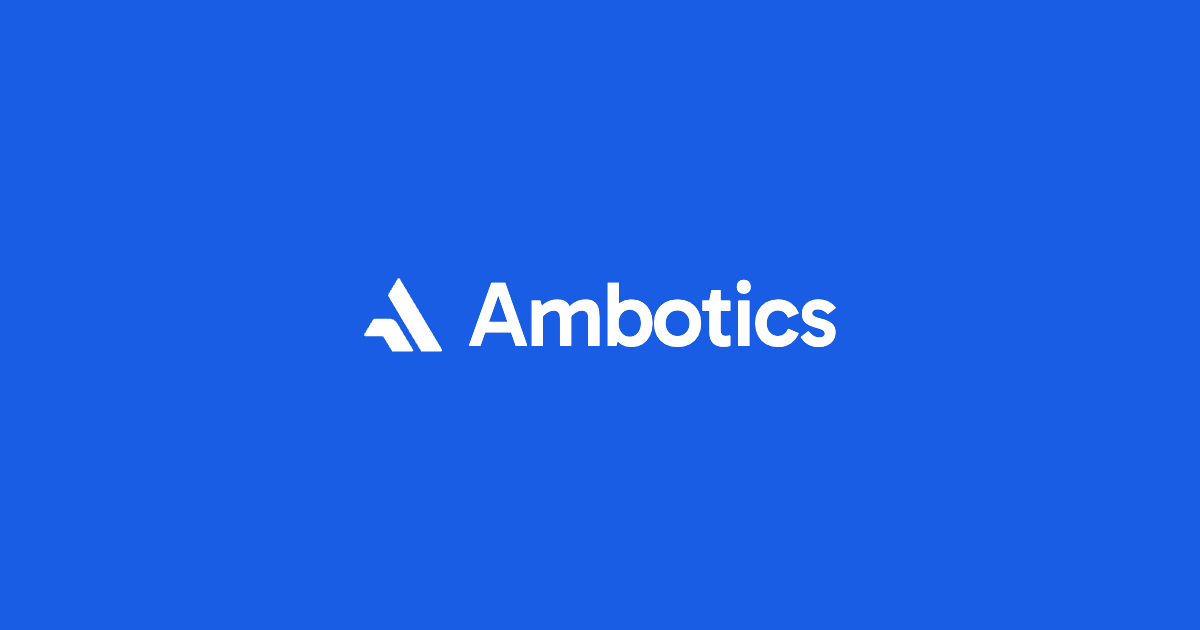
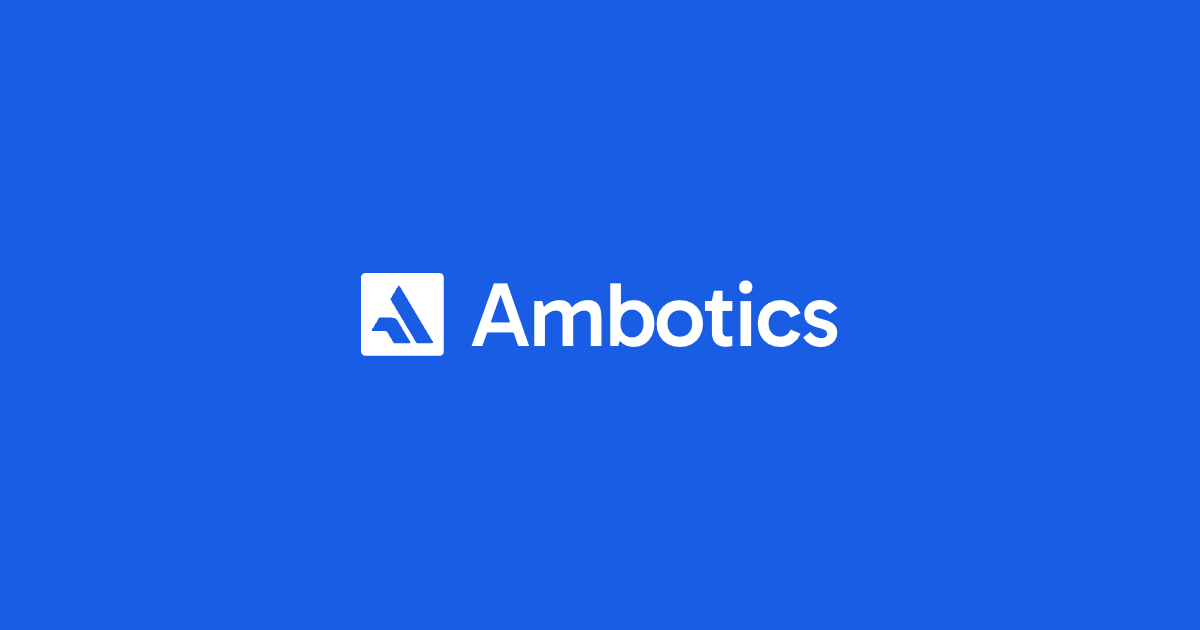
Put the mark on the designer's rounded tile (#7)
The A is knocked out of a 20px-corner tile that takes currentColor, so the
lockup reads as an app-icon badge: grey in the sidebar, white on the footer
with the blue showing through. The tile is 0.9em, centred on the cap height.

Off the page the badge is the footer's: a white tile with the A in the
accent. favicon.svg/.ico, apple-touch-icon.png and og-image.png are
re-rendered to match.

Changed region(s): [[0.4008, 0.4524, 0.7092, 0.5429], [0.2775, 0.4222, 0.37, 0.573]]

diff --git a/CLAUDE.md b/CLAUDE.md
@@ -62,20 +62,25 @@ them:
 
 Full palette table and rationale: see **Design system** in `README.md`.
 
-**The mark takes `currentColor`, never the designer's frame colours.** The source file
-(replaced 2026-11-01) is the mark knocked out of a white rounded square; the square is
-dropped. Earlier frames put the mark on a navy square, dropped because navy would be a
-second blue. The favicon re-centres the mark in the square: the designer's frame sat it
-17px right of centre.
-On the page the mark follows the wordmark (muted in the sidebar, white on the footer);
-off the page — favicon, apple-touch-icon, `og-image.png` — it is white on `#185de4`,
-the footer's own pairing. The mark is centred on Gabarito's 0.681em cap height (see
-`Wordmark.astro`); resize it and the offset must be recomputed.
+**The mark is the A knocked out of the designer's rounded tile, and the tile takes
+`currentColor`.** The source file (replaced 2026-11-01) is a white 391px square with 20px
+corners and the A cut through it. The tile came back on 2026-11-01 as an app-icon-style
+badge; NOW-255 had dropped it. Earlier frames put the mark on a navy square, dropped
+because navy would be a second blue. The A is re-centred in the tile: the designer's frame
+sat it 17px right of centre. `Mark.astro` and `favicon.svg` carry the same shifted path.
+On the page the tile follows the wordmark (muted in the sidebar, white on the footer), and
+the A shows whatever is behind it. Off the page — favicon, apple-touch-icon,
+`og-image.png` — the badge is the footer's: a white tile with the A in `#185de4`. The
+favicon paints the A rather than cutting it, so it stays blue on any tab. On a white tab
+the tile itself disappears and only the A shows. `apple-touch-icon.png` is full-bleed
+white with square corners, because iOS cuts its own corners and turns transparency black.
+The tile is 0.9em and centred on Gabarito's 0.681em cap height (see `Wordmark.astro`);
+resize it and the offset must be recomputed.
 
 **The wordmark is Gabarito 500, set in `Wordmark.astro`, not by its callers.** It was 600
 until 2026-09-30. 500 is also every heading's weight, so the sidebar lockup sits closer to
 the H1 and the solid mark weighs more against the letters; that was accepted. `og-image.png`
-bakes in the same lockup: white on `#185de4`, Gabarito at 92px, centred in 1200×630. Change
+bakes in the footer lockup: white on `#185de4`, Gabarito at 92px, centred in 1200×630. Change
 the weight or the mark and re-render the card.
 
 **The name carries no ™ anywhere** — not the lockup, the `<title>`, the meta tags, the

diff --git a/README.md b/README.md
@@ -24,14 +24,14 @@ astro.config.mjs          # site URL + Tailwind Vite plugin
 public/
   CNAME                   # custom domain for GitHub Pages
   og-image.png            # social card: the lockup, white on the accent (needs an absolute URL)
-  favicon.{svg,ico}, apple-touch-icon.png  # the mark, white on the accent
+  favicon.{svg,ico}, apple-touch-icon.png  # the mark: accent A on a white tile
 src/
   assets/                 # carousel photos — optimised at build time by astro:assets
   components/
     Carousel.astro        # scroll-snap carousel + arrow buttons (inside Applications)
     ContactForm.astro     # name / email / company / message, posted to Web3Forms
     Footer.astro          # accent-blue footer with grain overlay
-    Mark.astro            # the "A" mark, currentColor — sits in the wordmark lockup
+    Mark.astro            # the "A" knocked out of a currentColor tile — sits in the wordmark lockup
     SectionHeading.astro  # the one heading treatment — display face, 20px
     Sidebar.astro         # logo, section nav, scroll-spy
     Wordmark.astro        # mark + "Ambotics" lockup, shared by header and footer
